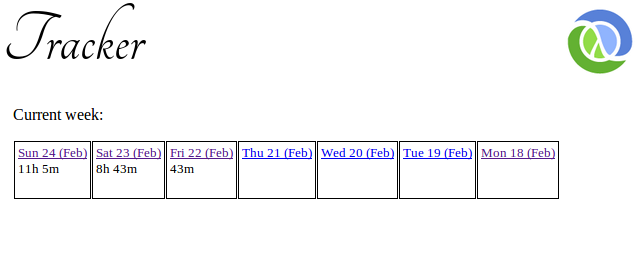
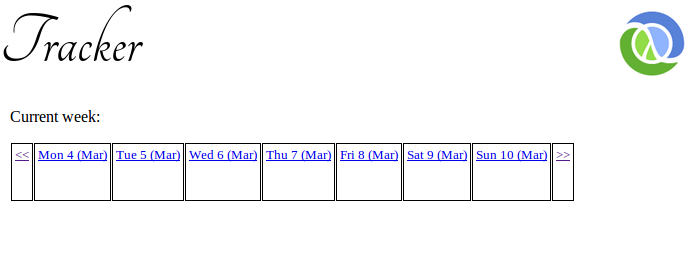
Updated to Clojure 1.5.0
Finished the navigation forwards and backwards by weeks.

Fixed tracker.time/nth-date-from which didn't work with negative n.

diff --git a/src/resources/snippets.html b/src/resources/snippets.html
@@ -1,5 +1,5 @@
-<div id="back-arrows">&lt;&lt; &lt;</div>
-<div id="forward-arrows"><a id="forward-small">&gt;</a> <a id="forward-big" href="">&gt;&gt;</a></div>
+<div id="back-arrows"><a id="backward-big">&lt;&lt;</a></div>
+<div id="forward-arrows"><a id="forward-big" href="">&gt;&gt;</a></div>
 
 <div id="main-page-content">
 
